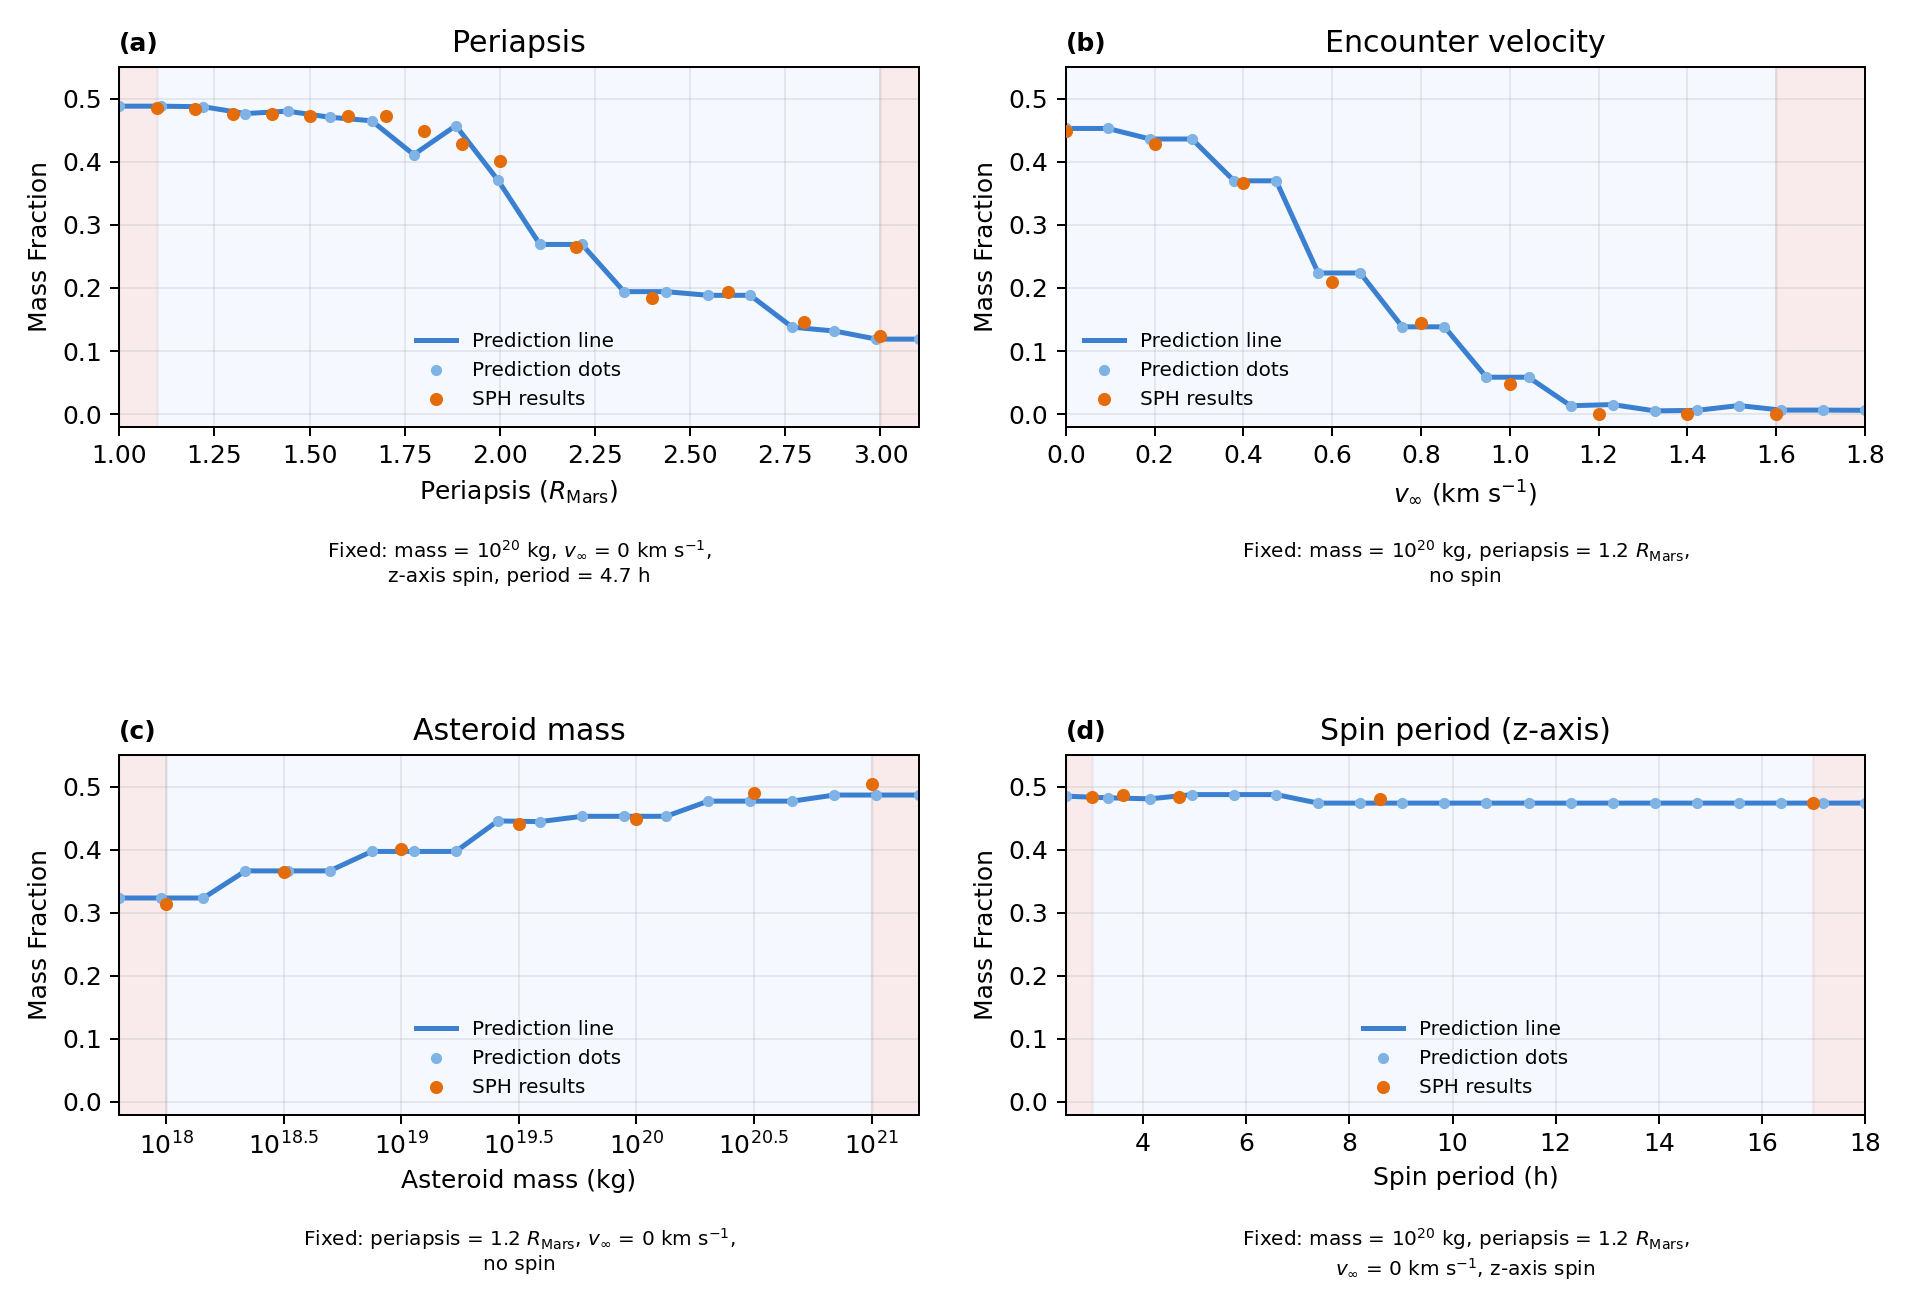
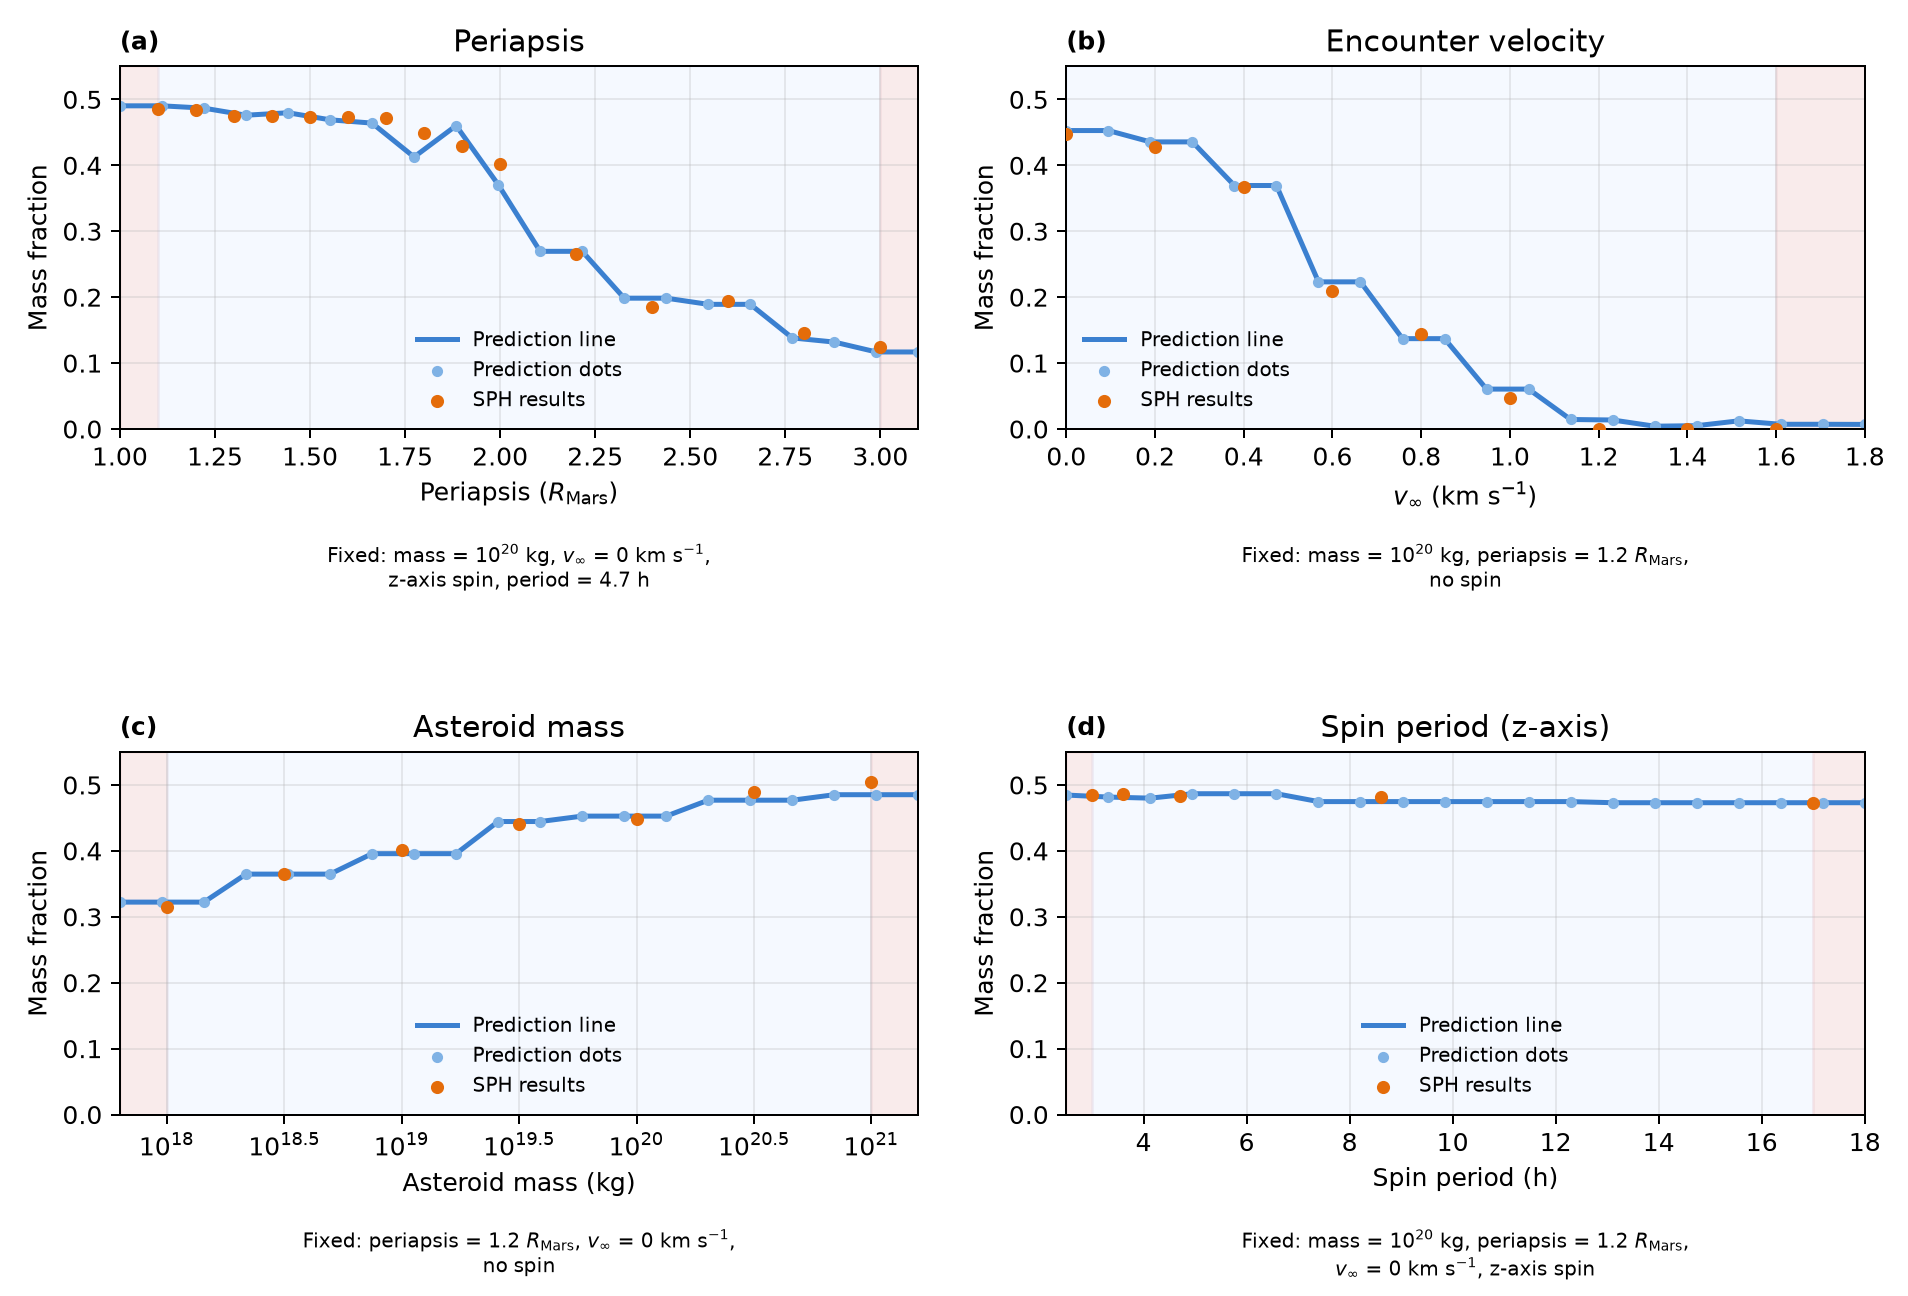
fix: y-axis up to 0.55

diff --git a/report-table-figure/figures/figureA1_build.py b/report-table-figure/figures/figureA1_build.py
@@ -27,7 +27,7 @@ OUTPUT_BASE = Path(OUTPUT_ROOT_ENV).resolve() if OUTPUT_ROOT_ENV else REPO_ROOT
 DATASET_PATH = Path("extraction-outputs/tables/bound_outcomes.csv")
 OUTPUT_PATH = OUTPUT_BASE / "report-table-figure" / "figures" / "figureA1_used_in_report.png"
 GRID_POINTS = 20
-BMF_YMAX_OVERRIDE: float | None = 0.6
+BMF_YMAX_OVERRIDE: float | None = 0.55
 INTERPOLATION_COLOR = "#dbe8ff"
 EXTRAPOLATION_COLOR = "#f3d3d3"
 LINE_COLOR = "#3b80d0"
@@ -256,7 +256,7 @@ def render_panel(
         ax.set_xticks(ticks)
         ax.set_xticklabels([fr"$10^{{{tick:g}}}$" for tick in ticks])
     y_upper = BMF_YMAX_OVERRIDE if BMF_YMAX_OVERRIDE is not None else 0.30
-    ax.set_ylim(-0.02, y_upper)
+    ax.set_ylim(0.0, y_upper)
     ax.grid(True, alpha=0.25)
     ax.legend(frameon=False, fontsize=8, loc="best")
     ax.text(0.0, 1.03, panel_label, transform=ax.transAxes, ha="left", va="bottom", fontsize=10, fontweight="bold")

diff --git a/report-table-figure/figures/figure3_build.py b/report-table-figure/figures/figure3_build.py
@@ -27,7 +27,7 @@ OUTPUT_BASE = Path(OUTPUT_ROOT_ENV).resolve() if OUTPUT_ROOT_ENV else REPO_ROOT
 DATASET_PATH = Path("extraction-outputs/tables/bound_outcomes.csv")
 OUTPUT_PATH = OUTPUT_BASE / "report-table-figure" / "figures" / "figure3_used_in_report.png"
 GRID_POINTS = 20
-BMF_YMAX_OVERRIDE: float | None = 0.6
+BMF_YMAX_OVERRIDE: float | None = 0.55
 INTERPOLATION_COLOR = "#dbe8ff"
 EXTRAPOLATION_COLOR = "#f3d3d3"
 LINE_COLOR = "#3b80d0"
@@ -267,7 +267,7 @@ def render_panel(
         ax.set_xticks(ticks)
         ax.set_xticklabels([fr"$10^{{{tick:g}}}$" for tick in ticks])
     y_upper = BMF_YMAX_OVERRIDE if BMF_YMAX_OVERRIDE is not None else 0.30
-    ax.set_ylim(-0.02, y_upper)
+    ax.set_ylim(0.0, y_upper)
     ax.grid(True, alpha=0.25)
     ax.legend(frameon=False, fontsize=8, loc="best")
     ax.text(0.0, 1.03, panel_label, transform=ax.transAxes, ha="left", va="bottom", fontsize=10, fontweight="bold")
